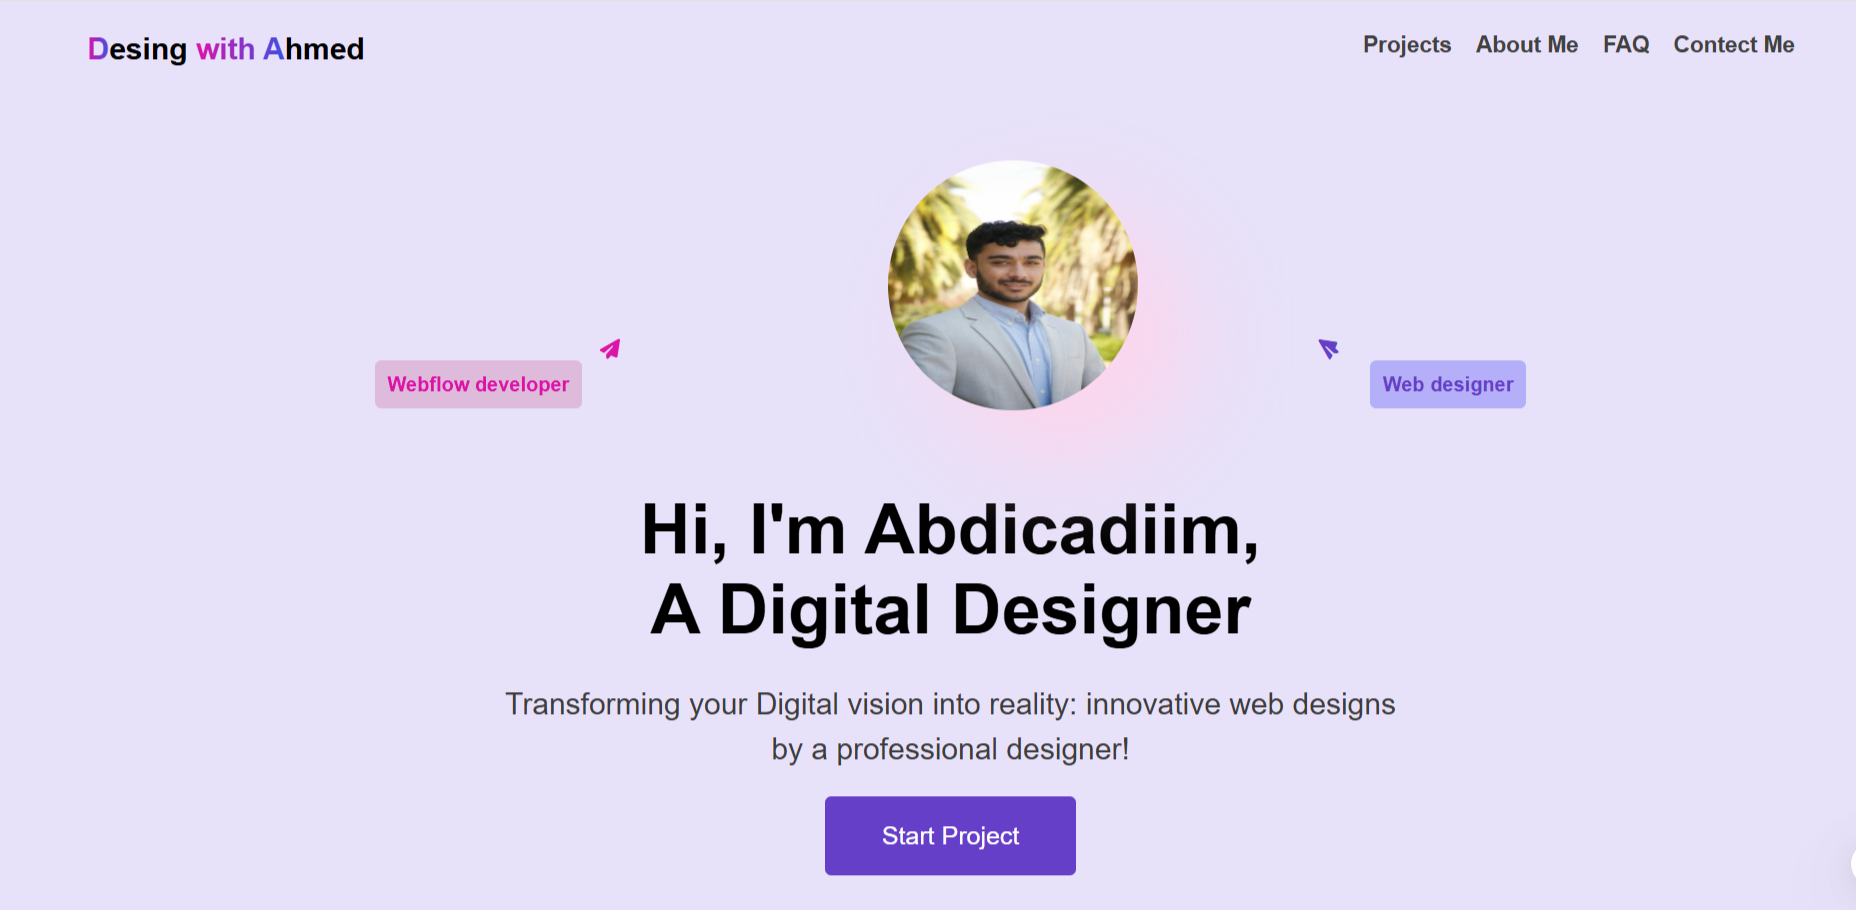
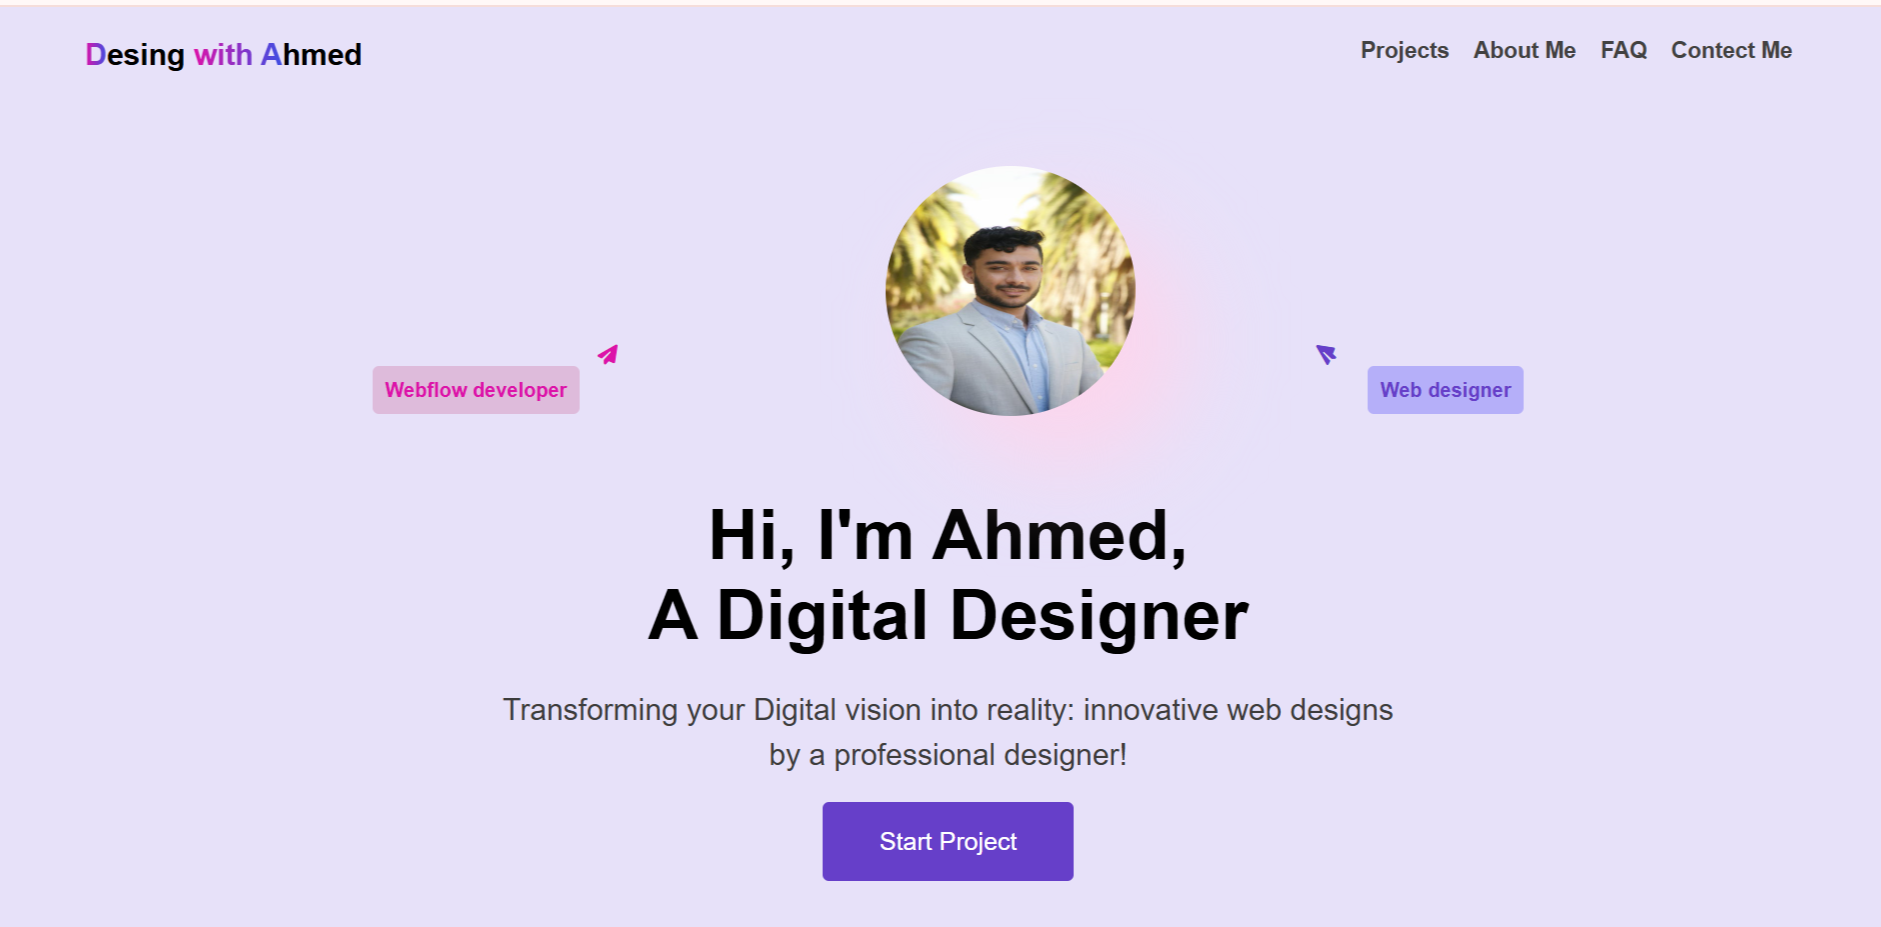
add image

diff --git a/index.html b/index.html
@@ -33,7 +33,7 @@
                 <div class="webdesg">Web designer <i class="fa-solid fa-paper-plane"></i></div>
             </div>
             <div class="text">
-                <h3>Hi, I'm Abdicadiim, <br> A Digital Designer</h3>
+                <h3>Hi, I'm Ahmed, <br> A Digital Designer</h3>
                 <p>Transforming your Digital vision into reality: innovative web designs 
                   <br>  by a professional designer!
                 </p>
